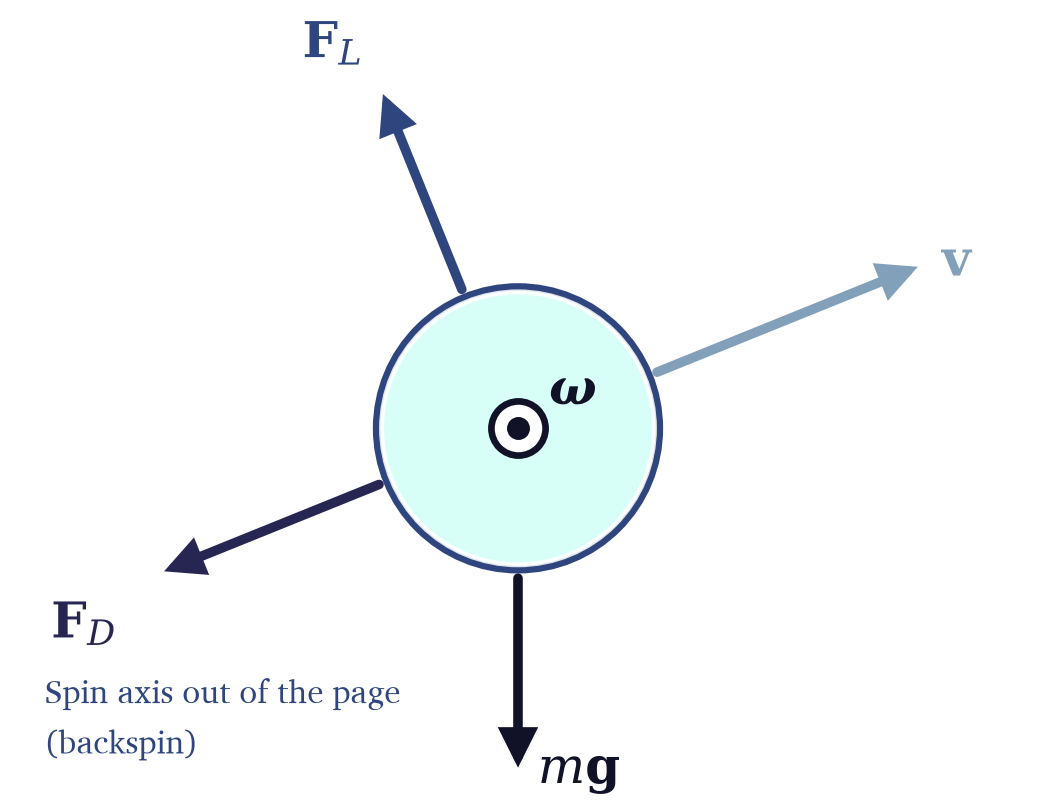
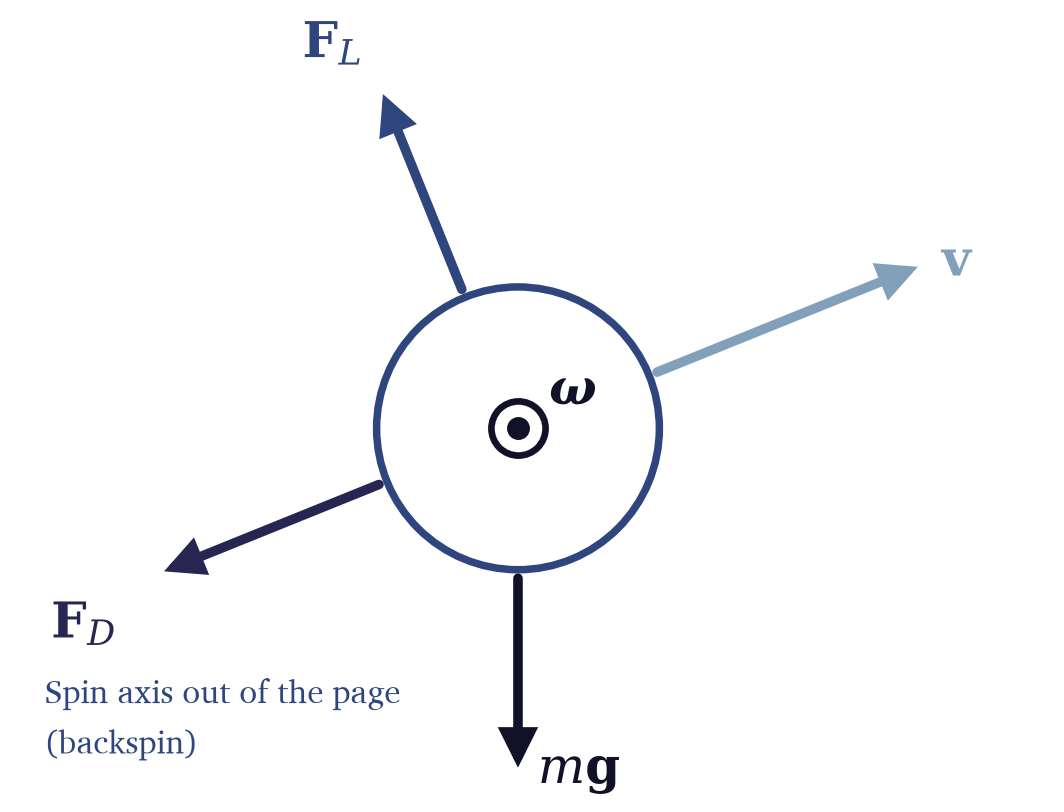
Remove fill color from ball in Figure 1 forces diagram

Changed region(s): [[0.3412, 0.3387, 0.6203, 0.7081]]

diff --git a/analysis/make_figures_model.py b/analysis/make_figures_model.py
@@ -76,11 +76,9 @@ def forces():
     ax.set_aspect("equal")
     ax.axis("off")
 
-    # Ball: crisp mint fill with navy border and subtle inner white highlight rim
-    ball = Circle((0, 0), 1.0, fc=COLOR_MINT, ec=COLOR_NAVY, lw=1.8, zorder=2)
+    # Ball: crisp circle without fill color
+    ball = Circle((0, 0), 1.0, fc="none", ec=COLOR_NAVY, lw=1.8, zorder=2)
     ax.add_patch(ball)
-    rim = Circle((0, 0), 0.965, fc="none", ec="#ffffff", lw=1.2, alpha=0.85, zorder=3)
-    ax.add_patch(rim)
 
     def arrow(x0, y0, x1, y1, c, lw=2.3, mut=15):
         ax.add_patch(FancyArrowPatch((x0, y0), (x1, y1), arrowstyle="-|>", mutation_scale=mut,
